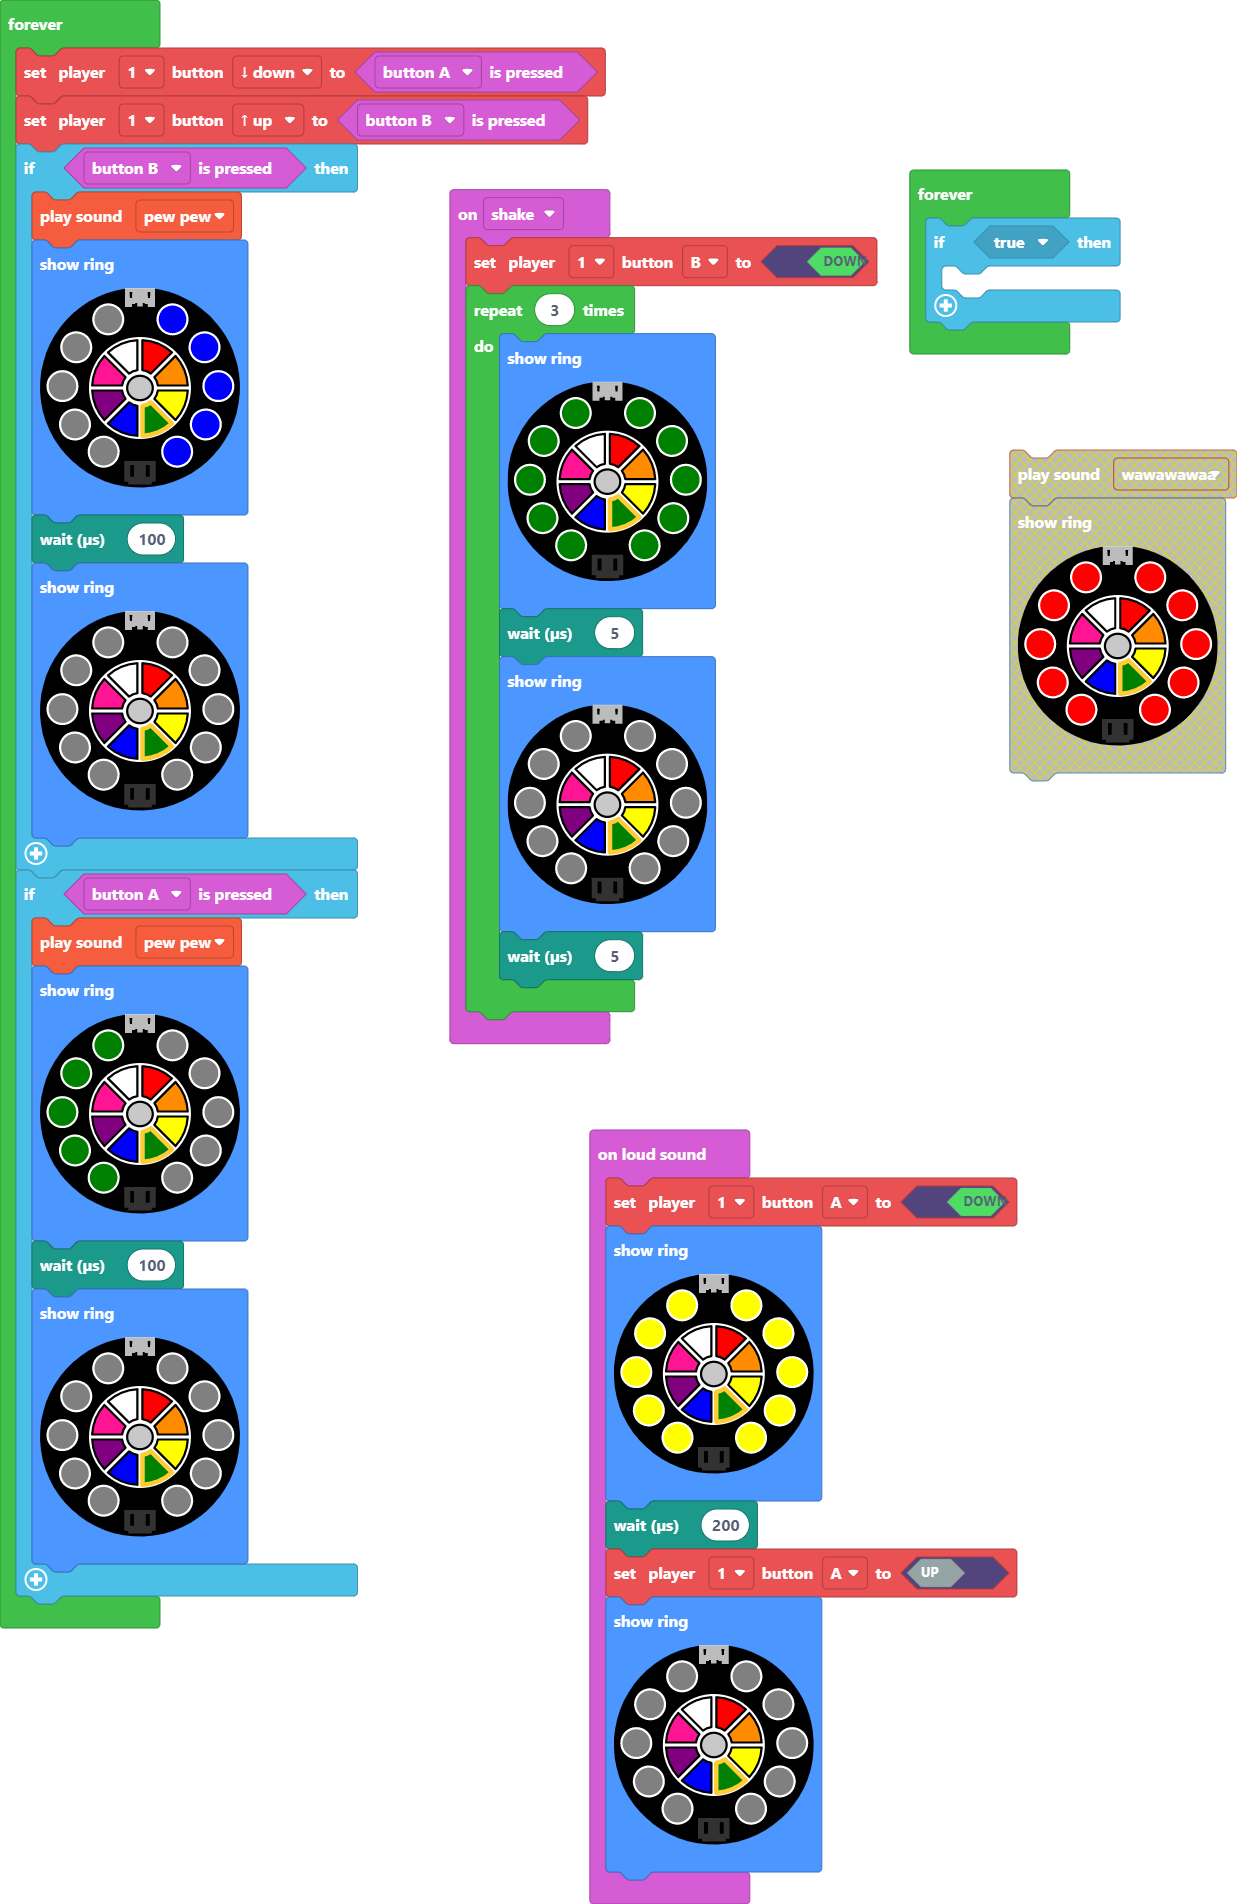
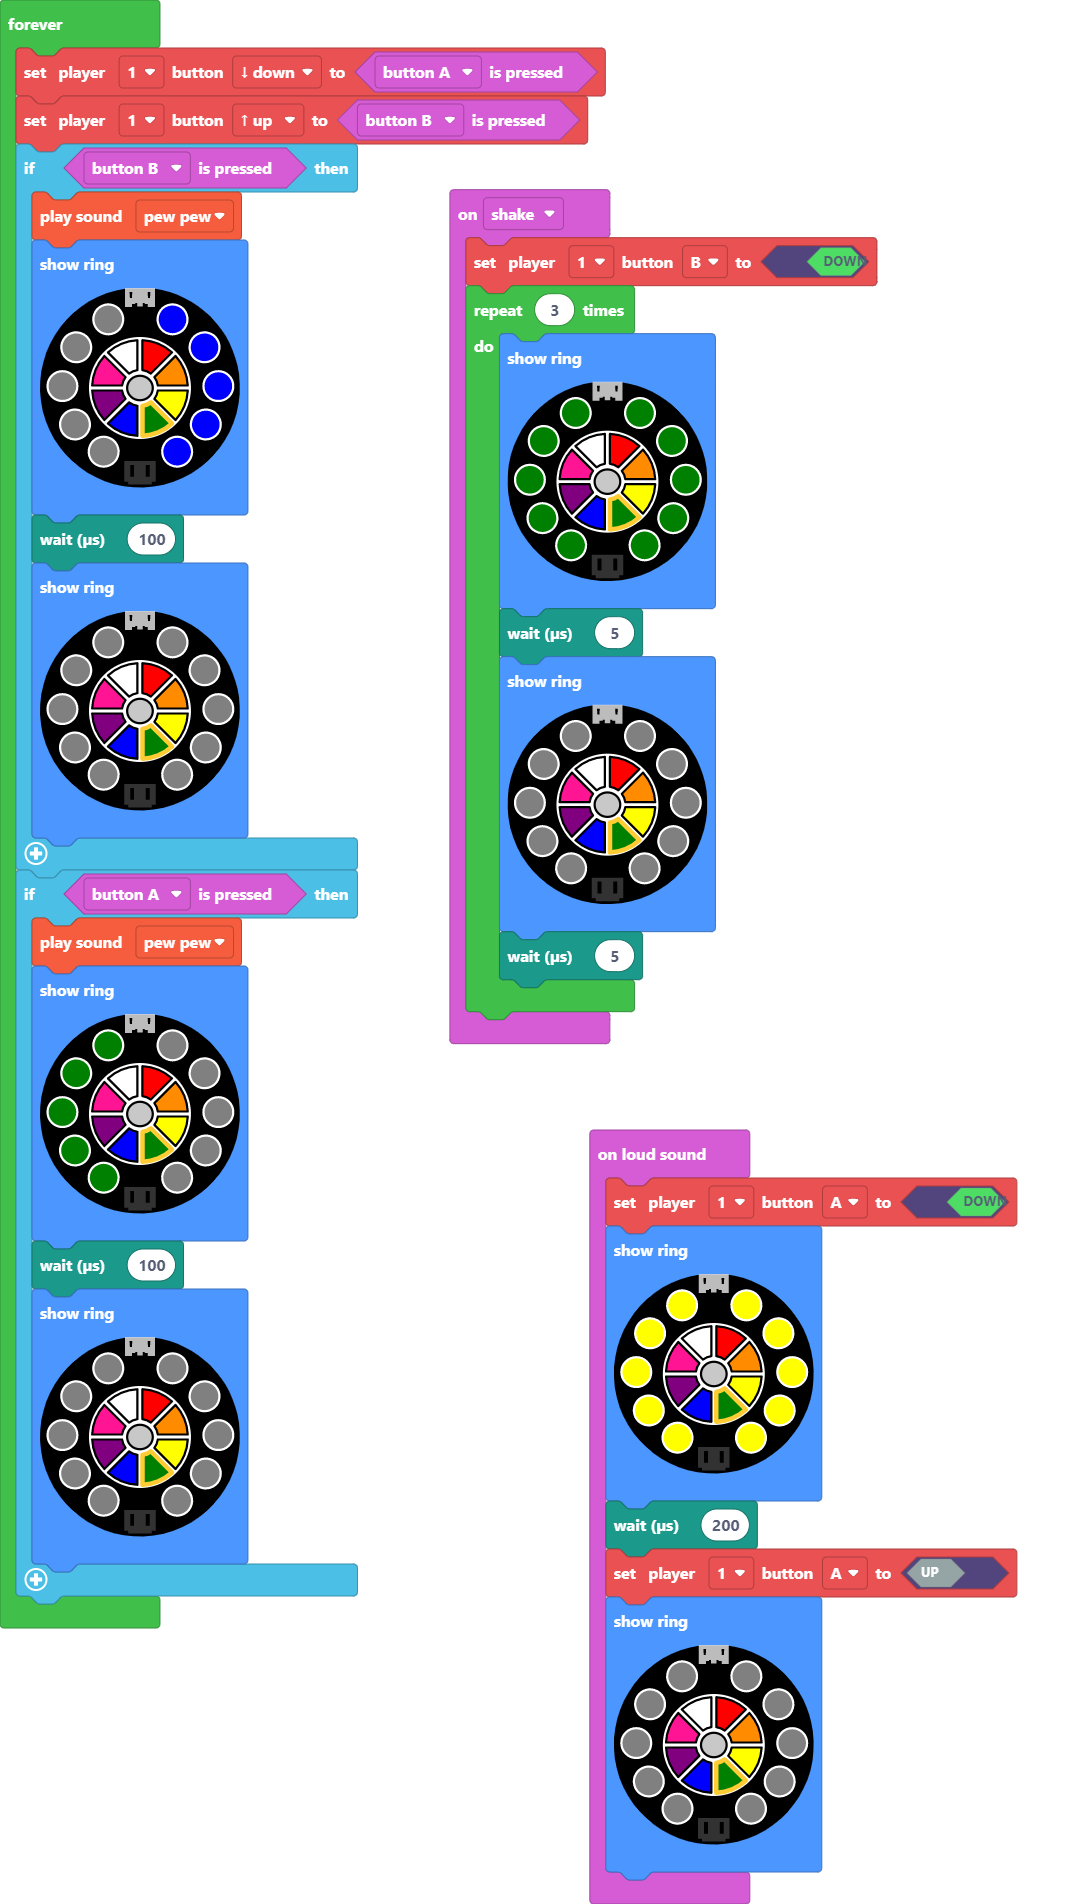
Update main.blocks, main.ts

diff --git a/main.ts b/main.ts
@@ -46,8 +46,3 @@ forever(function () {
         )
     }
 })
-forever(function () {
-    if (true) {
-    	
-    }
-})
